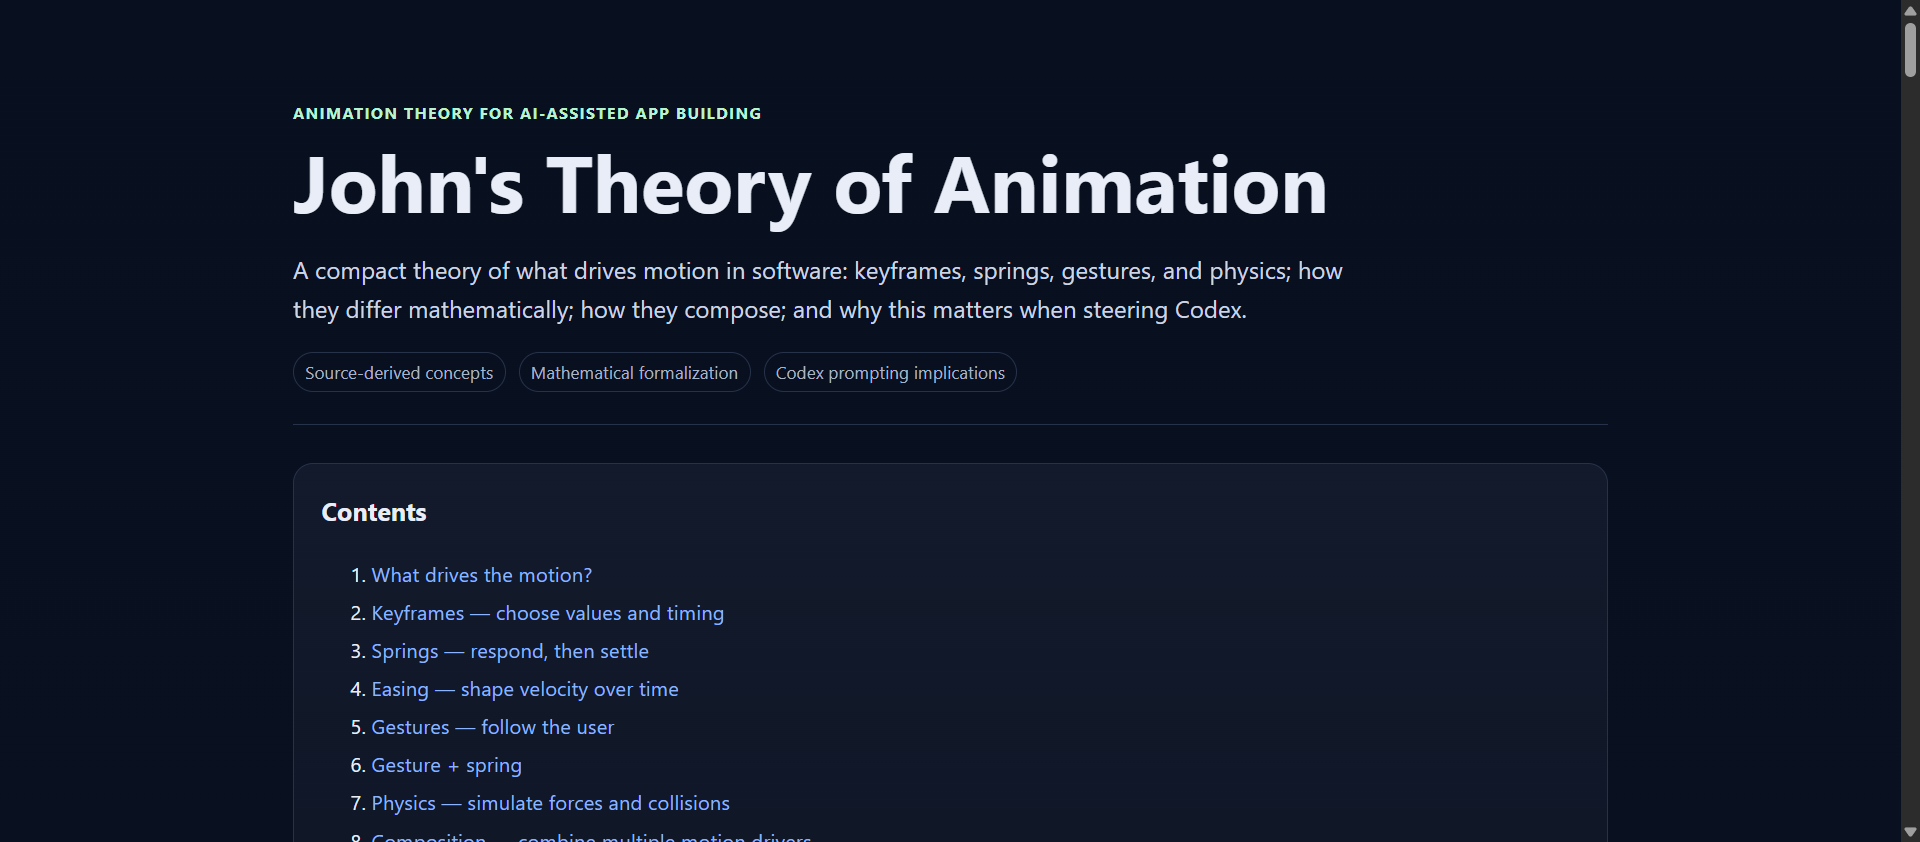
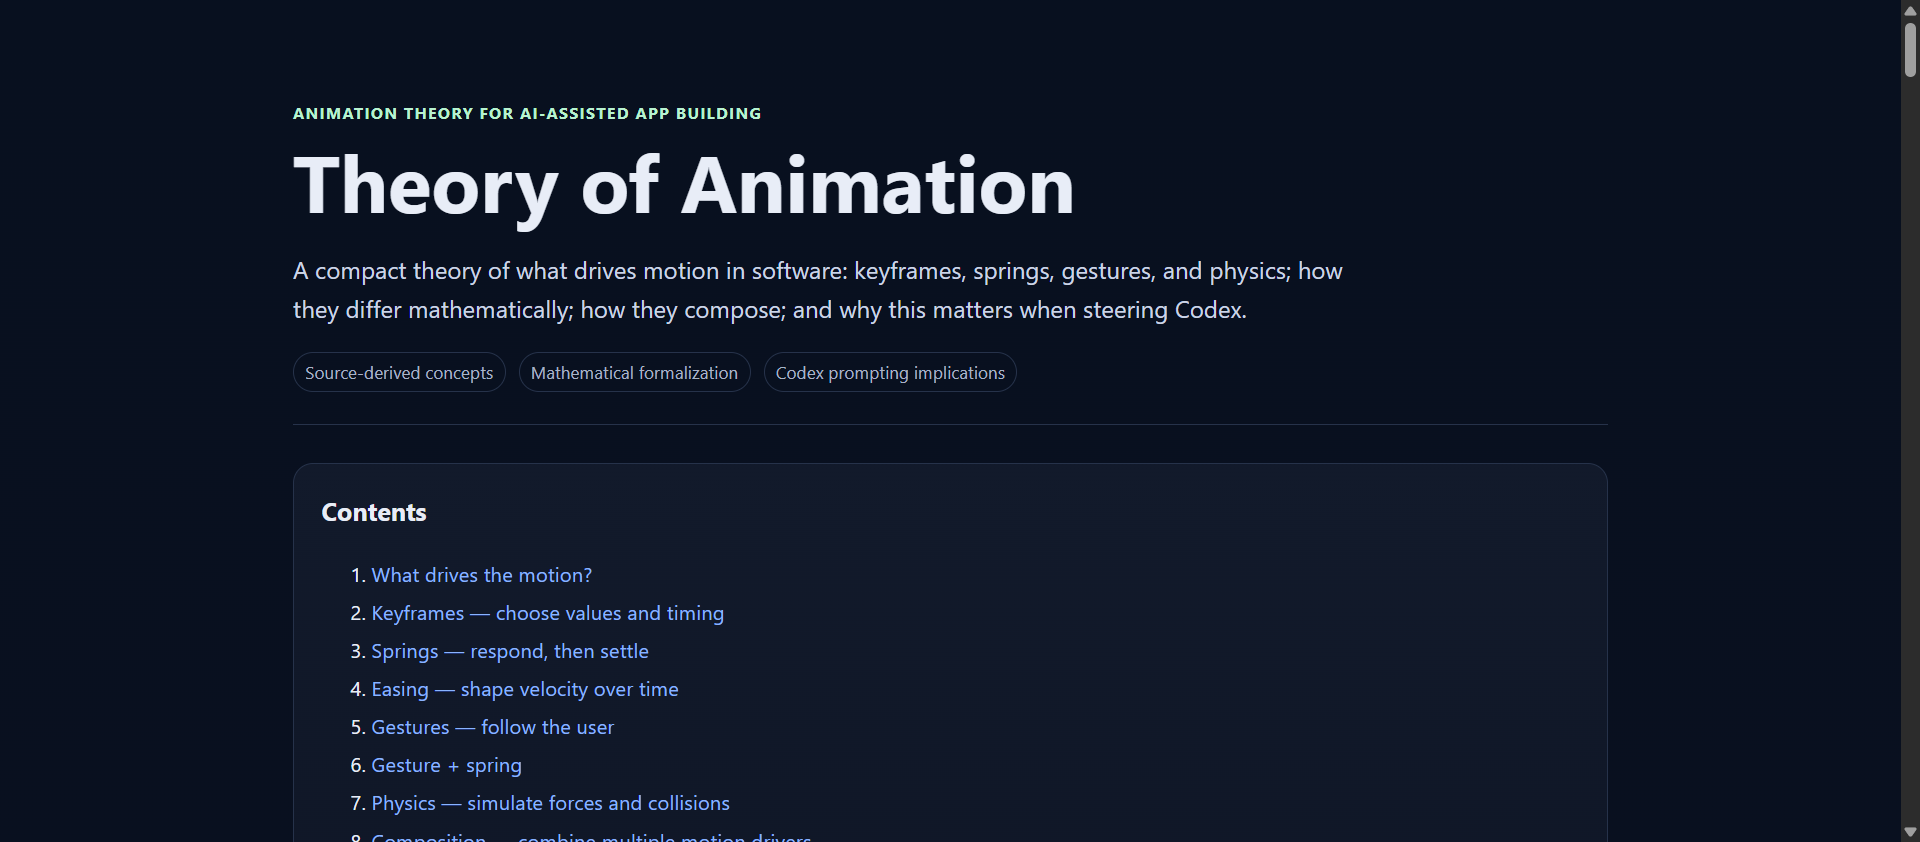
Add index.html redirect and remove possessive "John's" wording
- index.html: redirects the Pages root URL to animation_demo.html
- animation_theory.html, animation_demo.html: neutral titles and headings
  (no "John's"); refer to "the video" where the text cited the source
- README.md: list index.html
- assets/theory-preview.png: retaken to show the new title

Changed region(s): [[0.1562, 0.1853, 0.6875, 0.2779]]

diff --git a/animation_demo.html b/animation_demo.html
@@ -4,7 +4,7 @@
 <meta charset="utf-8">
 <meta name="viewport" content="width=device-width, initial-scale=1">
 <meta name="color-scheme" content="dark">
-<title>John's Animation Demo — 13 Motion Combinations</title>
+<title>Animation Demo — 13 Motion Combinations</title>
 <style>
   :root{--bg:#0f172a;--card:#1e293b;--text:#e2e8f0;--soft:#cbd5e1;--muted:#94a3b8;--a1:#fb923c;--a2:#2dd4bf;--line:#334155;--code:#0b1220}
   *{box-sizing:border-box}
@@ -50,8 +50,8 @@
 </head>
 <body>
 <div class="wrap">
-  <h1>John's Animation Demo</h1>
-  <p class="lede">One draggable character, Clawd. Thirteen animations: four single drivers (keyframes, spring, gesture, physics) and nine combinations. Each one has an explainer based on <a href="animation_theory.html">John's theory of animation</a>. Ask of each animation: what controls the next frame?</p>
+  <h1>Animation Demo</h1>
+  <p class="lede">One draggable character, Clawd. Thirteen animations: four single drivers (keyframes, spring, gesture, physics) and nine combinations. Each one has an explainer based on the <a href="animation_theory.html">theory of animation</a> page. Ask of each animation: what controls the next frame?</p>
   <nav id="nav"></nav>
   <div class="main">
     <div>
@@ -324,7 +324,7 @@ MODES.push({id:4,name:'Physics',drivers:'P',defaults:{e:.7,tilt:0},links:[['#phy
             {type:'button',label:'Drop',fn:()=>{S.x=HB+Math.random()*(SW-2*HB);S.y=HB+8;M.vx=(Math.random()-.5)*600;M.vy=0;M.on=true;}}],
   expl:`<p><span class="tag">Driver:</span> forces and constraints. You set the rules. The simulation produces the path.</p>
 <div class="eq">m·ẍ = ΣF &nbsp;&nbsp; F<sub>g</sub> = m·g &nbsp;&nbsp; v<sub>after</sub> = −e·v<sub>before</sub></div>
-<p>e = 0 gives no bounce. e ≈ 1 gives a highly elastic bounce. The tilt slider rotates the gravity vector: g<sub>screen</sub> = R(θ)·g. This is John's gyroscope example: the gravity direction changes, Clawd accelerates, the walls constrain it.</p>
+<p>e = 0 gives no bounce. e ≈ 1 gives a highly elastic bounce. The tilt slider rotates the gravity vector: g<sub>screen</sub> = R(θ)·g. This is the video's gyroscope example: the gravity direction changes, Clawd accelerates, the walls constrain it.</p>
 <p>Compare keyframes: there you author the trajectory. Here you author the rules, and the trajectory is simulated. A bounce slower than 30 px/s stops Clawd, to prevent jitter.</p>`,
   enter(){M.on=false;M.vx=0;M.vy=0;
     ov.innerHTML=`<line id="ga" x1="46" y1="46" stroke="#2dd4bf" stroke-width="3" stroke-linecap="round"/><circle id="gt" r="5" fill="#2dd4bf"/>`+txt(12,16,'gravity','start');},

diff --git a/animation_theory.html b/animation_theory.html
@@ -3,7 +3,7 @@
 <head>
 <meta charset="utf-8" />
 <meta name="viewport" content="width=device-width, initial-scale=1" />
-<title>John's Theory of Animation — Motion Drivers, Composition, and Codex</title>
+<title>Theory of Animation — Motion Drivers, Composition, and Codex</title>
 <style>
   :root{
     --bg:#0b1020;
@@ -114,7 +114,7 @@
 <div class="wrap">
   <header class="hero">
     <div class="kicker">Animation Theory for AI-Assisted App Building</div>
-    <h1>John's Theory of Animation</h1>
+    <h1>Theory of Animation</h1>
     <p class="lede">
       A compact theory of what drives motion in software: keyframes, springs, gestures, and physics;
       how they differ mathematically; how they compose; and why this matters when steering Codex.
@@ -279,7 +279,7 @@
       </tbody>
     </table>
 
-    <h3>John's device-orientation example</h3>
+    <h3>The device-orientation example</h3>
     <p>If a phone's gyroscope changes the orientation of gravity in screen coordinates:</p>
     <div class="eq">g⃗<sub>screen</sub> = R(θ) g⃗</div>
     <ul>
@@ -348,12 +348,12 @@ On release inside the valid drop zone:
       <div class="card mini"><h3>Physics</h3><p><strong>Question:</strong> Should behavior emerge from forces, collisions, or constraints?</p></div>
     </div>
     <div class="card">
-      <strong>John's broader lesson:</strong> the quality jump comes from understanding these primitives well enough to compose them deliberately, then using Codex to execute the implementation rather than asking Codex to invent taste from scratch.
+      <strong>The broader lesson:</strong> the quality jump comes from understanding these primitives well enough to compose them deliberately, then using Codex to execute the implementation rather than asking Codex to invent taste from scratch.
     </div>
   </section>
 
   <footer>
-    <p><strong>Source basis:</strong> John's transcript sections “The animation toolbox,” “Composing animations,” and “Using Codex computer use with Rive.” Mathematical equations and the unified taxonomy are explicit formalizations added to clarify John's conceptual framework.</p>
+    <p><strong>Source basis:</strong> The video's transcript sections “The animation toolbox,” “Composing animations,” and “Using Codex computer use with Rive.” Mathematical equations and the unified taxonomy are explicit formalizations added to clarify the video's conceptual framework.</p>
   </footer>
 </div>
 </body>

diff --git a/index.html b/index.html
@@ -1,0 +1,14 @@
+<!DOCTYPE html>
+<html lang="en">
+<head>
+<meta charset="utf-8">
+<meta name="viewport" content="width=device-width, initial-scale=1">
+<meta name="color-scheme" content="dark">
+<meta http-equiv="refresh" content="0; url=animation_demo.html">
+<title>Animation Demo</title>
+<style>body{margin:0;padding:24px;background:#0f172a;color:#e2e8f0;font:16px/1.55 ui-sans-serif,system-ui,sans-serif}a{color:#2dd4bf}</style>
+</head>
+<body>
+<p>Opening the demo. If nothing happens, <a href="animation_demo.html">open the animation demo</a>.</p>
+</body>
+</html>

diff --git a/README.md b/README.md
@@ -60,6 +60,7 @@ There is no build step and there are no packages to install. Download the files,
 
 ## Files
 
+- `index.html` redirects the site root, https://az9713.github.io/theory-of-animation/, to the demo.
 - `animation_demo.html` is the demo. It uses plain HTML, CSS, and JavaScript, with no libraries.
 - `animation_theory.html` is the theory page.
 - `assets/` holds the two preview images.
